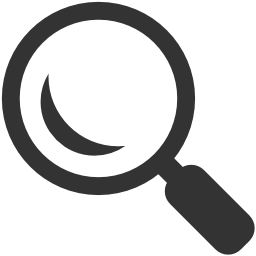
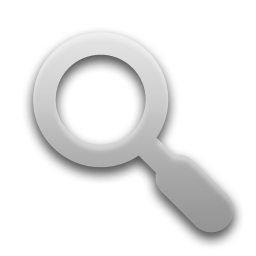
mau maghrib

diff --git a/assets/css/global.css b/assets/css/global.css
@@ -239,9 +239,8 @@ input[type=password]:focus  {
 .search_but{
 	float:right;
 	width:20px;
-	height:19px;
+	height:20px;
 	padding:3px;
-	background:#777575 ;opacity:1;filter:alpha(opacity=60);
 }
 .event_unit{
 	clear:both;
@@ -332,7 +331,14 @@ input[type=password]:focus  {
 	z-index: -1;
 }
 .search_panel{
-	float:right;
+	position:absolute;
+	top:10px;
+	width:250px;
+	right:160px;
+	display:none;
+	z-index:1003;
+	list-style:none;
+	top:17px;
 }
 
 #pagging{
@@ -421,8 +427,8 @@ input[type=password]:focus  {
 	}
 	
 .list_link_header{
-	padding:0px;
-	float:left;
+	padding-top:5px;
+	float:right;
 	list-style:none;
 	margin-top:-10px;
 	margin-bottom:0px;
@@ -434,15 +440,24 @@ input[type=password]:focus  {
 }
 .list_link_header li{
 	float:left;
-	padding:10px 10px;
+	padding:5px 10px;
 	border-right:solid 1px #363738;
 	color:#777575;
+	
 }
 .list_link_header li.first{
 	float:left;
-	padding:10px 10px;
+	padding:5px 10px;
 	border-right:solid 1px #363738;
 	border-left:solid 1px #363738;
+	
+}
+
+.list_link_header li.last{
+	float:left;
+	padding:5px 10px;
+	border-right:none;
+	border-left:none;
 	
 }
 
@@ -529,4 +544,22 @@ input[type=password]:focus  {
 	padding: 5px;
 	font-size: 12px;
 	margin:10px;
+}
+.news_readmore{
+	margin-top:5px;
+	padding:2px;
+	border:solid 1px #3B6A8E;
+	border-radius:2px;
+	width:160px;
+	float:right;
+}
+
+.news_readmore:hover{
+	margin-top:5px;
+	padding:2px;
+	background:#B7C4CE;
+	border:solid 1px #3B6A8E;
+	border-radius:2px;
+	width:160px;
+	float:right;
 }

diff --git a/application/controllers/website.php b/application/controllers/website.php
@@ -48,7 +48,7 @@ class Website extends CI_Controller {
 		$data['daftar_tautan'] = $this->web_link->get_links();
 		
 		if (is_numeric($_id)) {
-			if ($_id <= 0) {
+			if ($_id <= 0) { // list news
 				$this->load->model ('web_functions');
 				$_ipp = $this->input->get('n'); // item per page
 				$_cur = $this->input->get('p'); // current page (zero-based)
@@ -69,11 +69,13 @@ class Website extends CI_Controller {
 					'/news/',
 					'cat='.$_filter.'&amp;n='.$_ipp
 				);
+				$data['cat_name'] = "semua berita";
+				if ($_filter != 0) $data['cat_name'] = $this->web_posting->get_name_categori($_filter);
 				$data['_ctr'] = $_cur*$_ipp;
 				$data['_ipp'] = $_ipp;
 				$data['page_title'] = "Daftar Posting";
-				$this->load->template_posting('posting_list', $data,false,false,'&raquo news');
-			} else {
+				$this->load->template_posting('posting_list', $data,false,false,"&raquo news &raquo ".$data['cat_name']);
+			} else {//menampilkan news
 				$data['_posting'] = $this->web_posting->get_post($_id, true, $_slug);
 				$this->load->helper('url');
 				if (!$data['_posting']) {
@@ -89,7 +91,7 @@ class Website extends CI_Controller {
 				}
 				$this->web_posting->hit_post($data['_posting']->id_berita);
 				$data['page_title'] = $data['_posting']->judul;
-				$this->load->template_posting('posting', $data,false,false,'&raquo news');
+				$this->load->template_posting('posting', $data,false,false,"&raquo news");
 			}
 		} else {
 		}
@@ -156,7 +158,7 @@ class Website extends CI_Controller {
 		$data['page_title'] = 'Agenda Terdekat';
 		$data['daftar_event'] = $this->web_event->get_nearest_event(5);
 		$data['daftar_tautan'] = $this->web_link->get_links();
-		$this->load->template_akademik('agenda', $data);
+		$this->load->template_akademik('agenda', $data,false,'&raquo berita &raquo agenda');
 	}
 	
 	public function page($_id) {
@@ -176,7 +178,7 @@ class Website extends CI_Controller {
 			return;
 		}
 		$data['page_title'] = $data['_page'][0]->f_title;
-		$this->load->template_posting('page', $data);
+		$this->load->template_posting('page', $data,false,false,"&raquo&nbsp".$data['_page'][0]->f_title);
 	}
 	
 	public function feed() {
@@ -194,7 +196,7 @@ class Website extends CI_Controller {
 		$data['page_title'] = 'Tentang Situs';
 		$data['daftar_event'] = $this->web_event->get_nearest_event(5);
 		$data['daftar_tautan'] = $this->web_link->get_links();
-		$this->load->template_akademik('tentang_situs', $data);
+		$this->load->template_akademik('tentang_situs', $data,false,'&raquo tentang - situs');
 	}
 }
 

diff --git a/application/views/skin/header.php b/application/views/skin/header.php
@@ -50,6 +50,9 @@
 				thumbs: false,
 				loaderColor:"#31A1FF"});
 		});
+		$('#toggle_search').click(function(){
+			$('.search_panel').slideToggle();//you can give it a speed
+		  });
 	});
 	</script>
 	<style>.readmore{display:none;}</style>
@@ -71,18 +74,45 @@
   js = d.createElement(s); js.id = id;
   js.src = "//connect.facebook.net/id_ID/all.js#xfbml=1";
   fjs.parentNode.insertBefore(js, fjs);
-}(document, 'script', 'facebook-jssdk'));</script>
+}(document, 'script', 'facebook-jssdk'));
+
+//google search custome
+  (function() {
+    var cx = '012334604403258577220:-xkdwekeoxc';
+    var gcse = document.createElement('script');
+    gcse.type = 'text/javascript';
+    gcse.async = true;
+    gcse.src = (document.location.protocol == 'https:' ? 'https:' : 'http:') +
+        '//www.google.com/cse/cse.js?cx=' + cx;
+    var s = document.getElementsByTagName('script')[0];
+    s.parentNode.insertBefore(gcse, s);
+  })();
+//menu
+$(document).ready(function(){
+  
+  
+  /*$('li.mainlevel').mouseleave(function(){
+  $(this).find('ul').slideUp("fast");
+  });*/
+  
+});
+</script>
 <div id='site_main_wrapper' style='width: 100%;'>
 <div id='site_wrapper'>
 	<div id='site_bg_top' <?php if (isset($is_home)) echo "style='height: 330px;'"; ?>></div>
 	<div id='site_header'>
 		<div id='site_header_search'>
 			<ul class='list_link_header'>
-				<li class='first'><a href='/admin'>admin</a></li>
-				<li><a href='#'>site map</a></li>
-				<li><a href='/feed'>rss</a></li>
+				<li class='first'><a href='#'><img class='search_but' src='/assets/images/sitemap_icon.png'></a></li>
+				<li><a href='/feed'><img class='search_but' src='/assets/images/rss_icon2.png'></a></li>
+				<li><a href="#" id="toggle_search"><img class='search_but' src='/assets/images/search_icon.png'></a>
+					<ul class='search_panel'>
+						<li class='last'><gcse:search></gcse:search></li>
+					</ul>
+				</li>
 			</ul>
-			<div class='search_panel'><img class='search_but' src='assets/images/search_icon.png'><input class='search_box'type='text'></input></div>
+			<!--<div class='search_button'style='width:100px;height:20px'></div>
+			<div class='search_panel'><gcse:search></gcse:search></div>-->
 		</div>
 		<div class='divclear'></div>
 		<div id='site_header_logo'>

diff --git a/application/views/home.php b/application/views/home.php
@@ -30,7 +30,8 @@
 			echo "<a href='/news/".$newest_post[0]->id_berita."/{$newest_post[0]->f_slug}'>".$newest_post[0]->judul."</a>"; ?></h3>
 		<?php echo substr(strip_tags($newest_post[0]->isi_berita),0,450) . "..."; ?>
 		<div class='divclear'></div>
-		<div class='site_news_foot'><?php echo "<a href='/news/".$newest_post[0]->id_berita."/{$newest_post[0]->f_slug}'>Baca Selengkapnya &raquo;</a>"; ?></div>
+		<div class='news_readmore'><?php echo "<a href='/news/".$newest_post[0]->id_berita."/{$newest_post[0]->f_slug}'>Baca Selengkapnya &raquo;</a>"; ?></div>
+		<div class='divclear'></div>
 		<hr>
 		Berita terbaru lain:
 		<ul>
@@ -42,7 +43,8 @@
 				}
 			 ?>
 		</ul>
-		<div class='site_news_foot'><a href='/news/'>Berita Selengkapnya &raquo;</a></div>
+		<div class='news_readmore'><a href='/news/'>Berita Selengkapnya &raquo;</a></div>
+		<div class='divclear'></div>
 	</div>
 	<div id='site_content_more'>
 		<div id="container">

diff --git a/assets/menu.php b/assets/menu.php
@@ -64,11 +64,11 @@
 		</ul></div>
 	</li>
 	<li><a href='/news'><span>Berita</span></a>
-		<div><ul><li><a href='#'><span>Pengumuman</span></a>
+		<div><ul><li><a href='/news?cat=1'><span>Pengumuman</span></a>
 				</li>
-				<li><a href='#'><span>Agenda</span></a>
+				<li><a href='/agenda'><span>Agenda</span></a>
 				</li>
-				<li><a href='#'><span>Lowongan</span></a>
+				<li><a href='/news?cat=4'><span>Lowongan</span></a>
 				</li>
 		</ul></div>
 	</li>

diff --git a/application/models/web_posting.php b/application/models/web_posting.php
@@ -141,4 +141,9 @@ class web_posting extends CI_Model{
 		if ($this->db->affected_rows() == 0) return false;
 		return true;
 	}
+	function get_name_categori($_id) {
+		$query = $this->db->query("SELECT f_name FROM  t_category WHERE f_id=$_id");
+		$_result = $query->row();
+		return $_result->f_name;
+	}
 }

diff --git a/application/views/page.php b/application/views/page.php
@@ -4,7 +4,4 @@
 		<hr>
 		<?php echo $_page[0]->f_content; ?><br>
 	</div>
-	<div id='site_content_more'>
-		
-	</div>
 	
